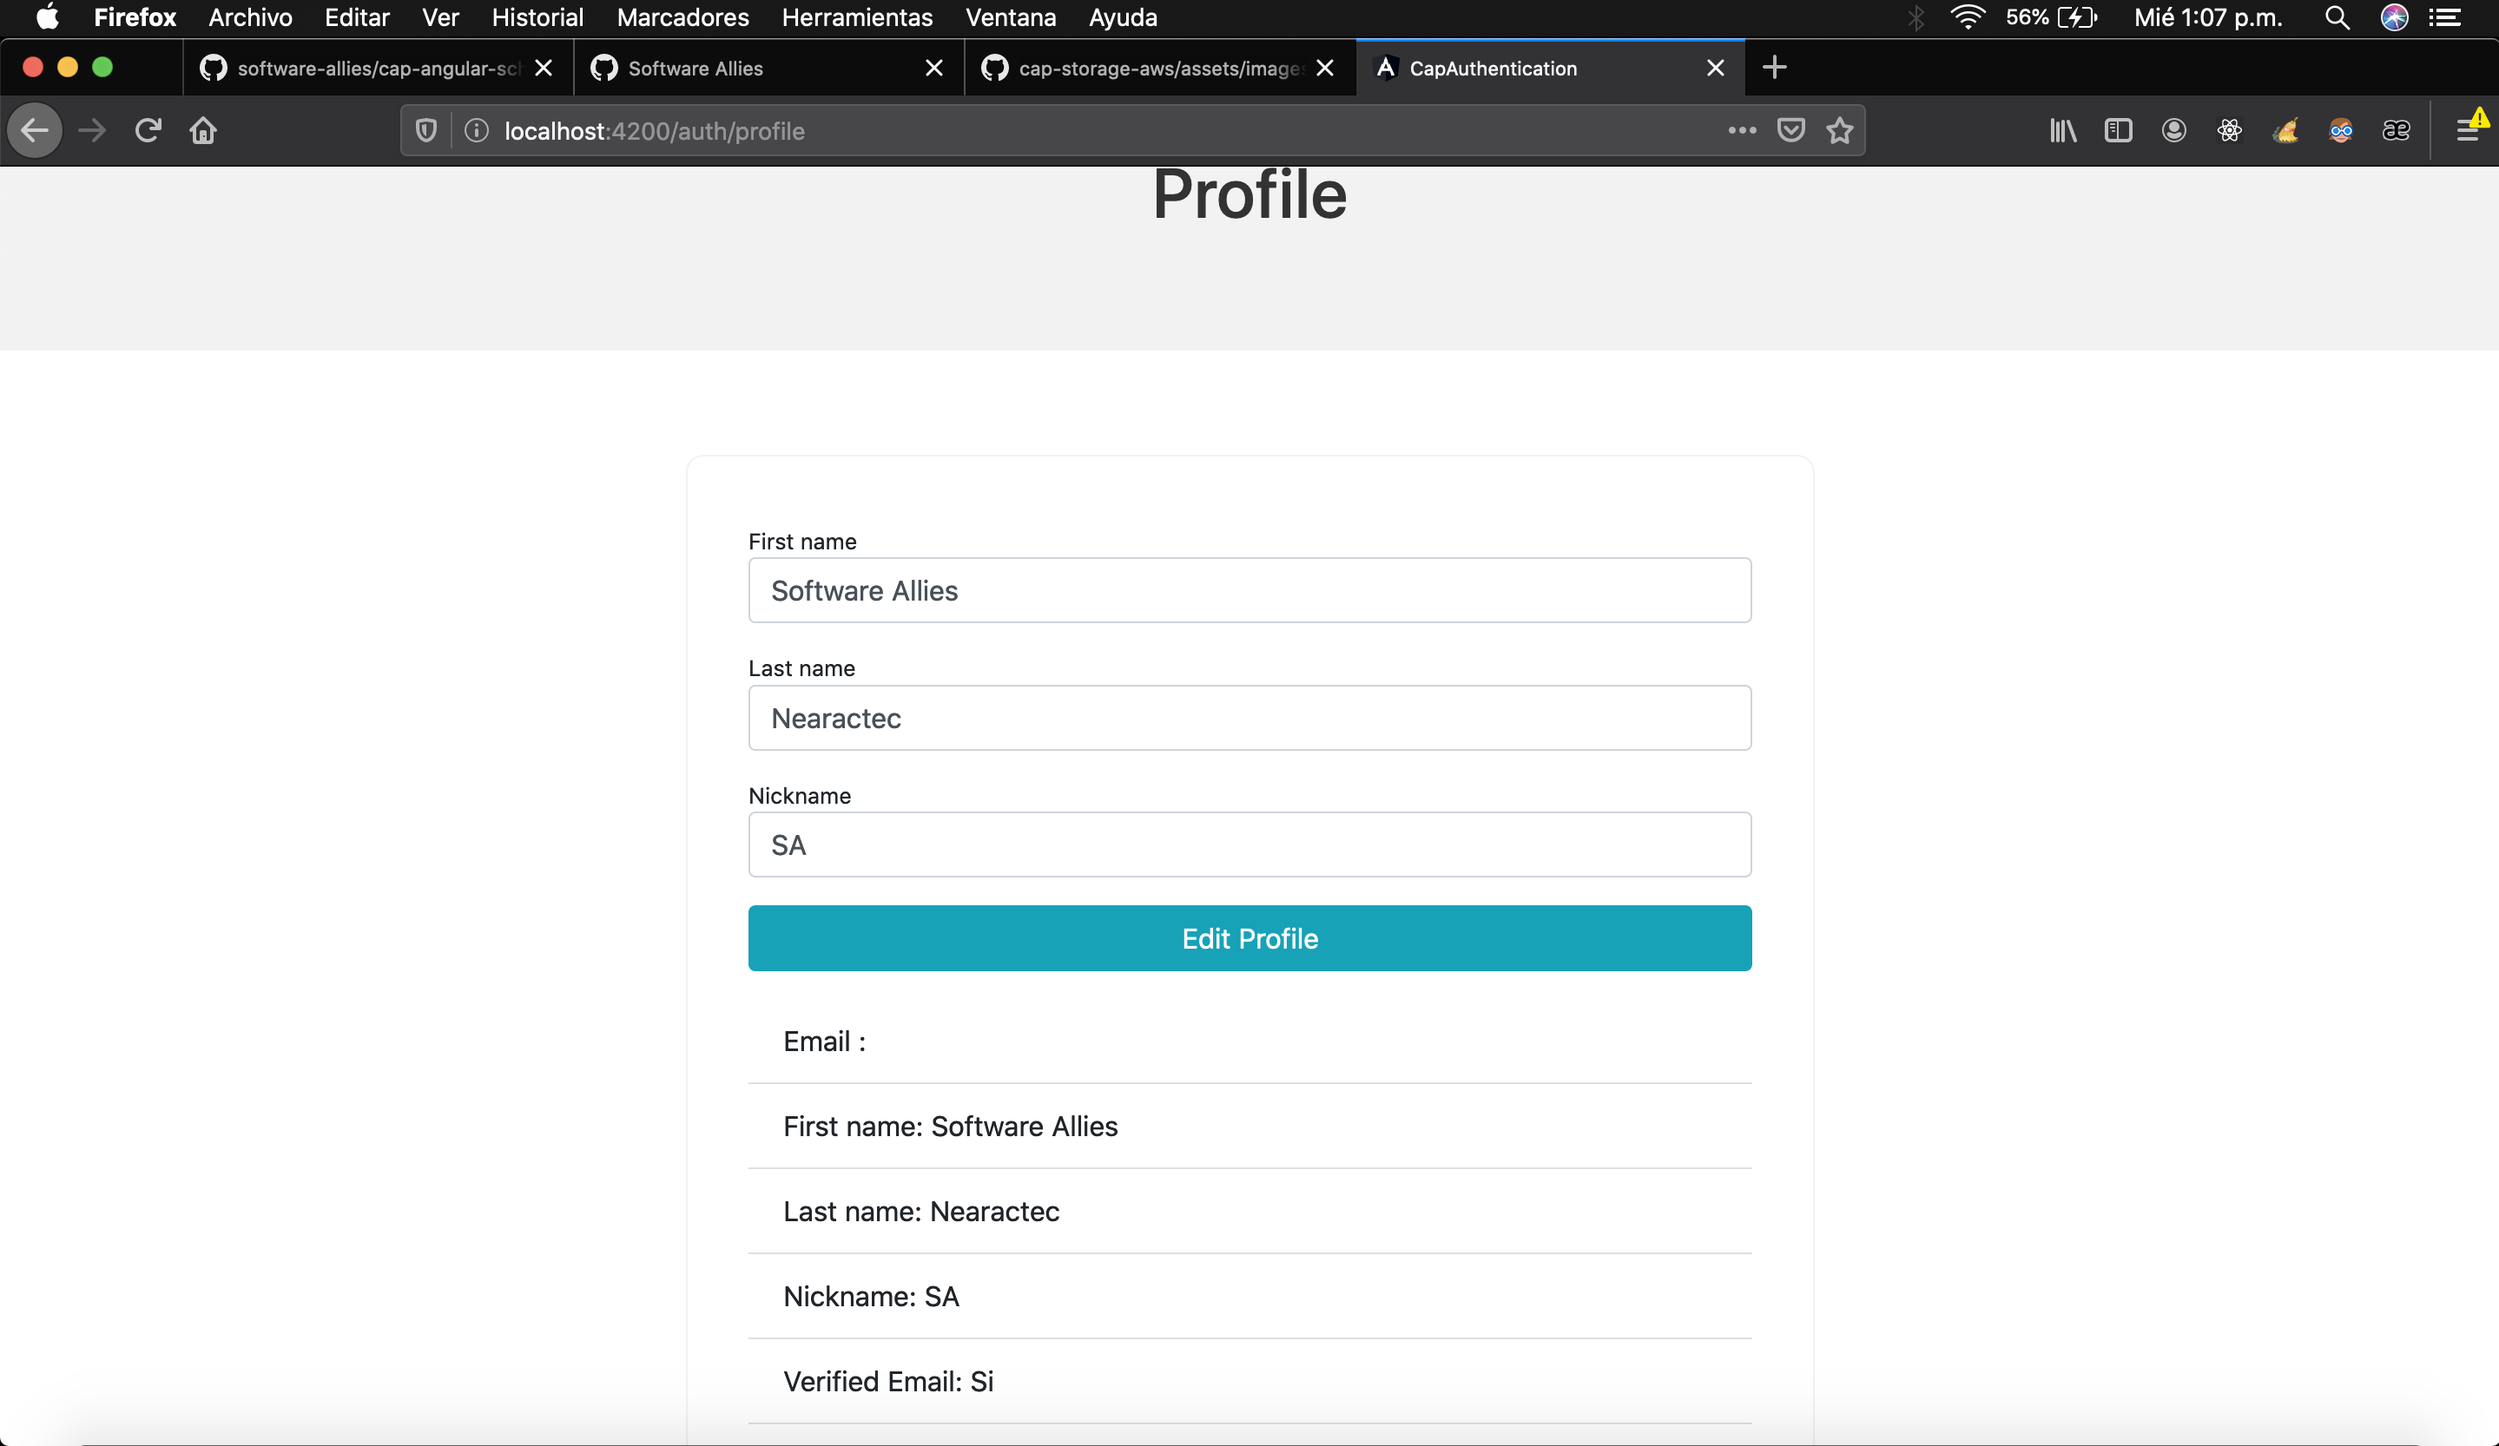
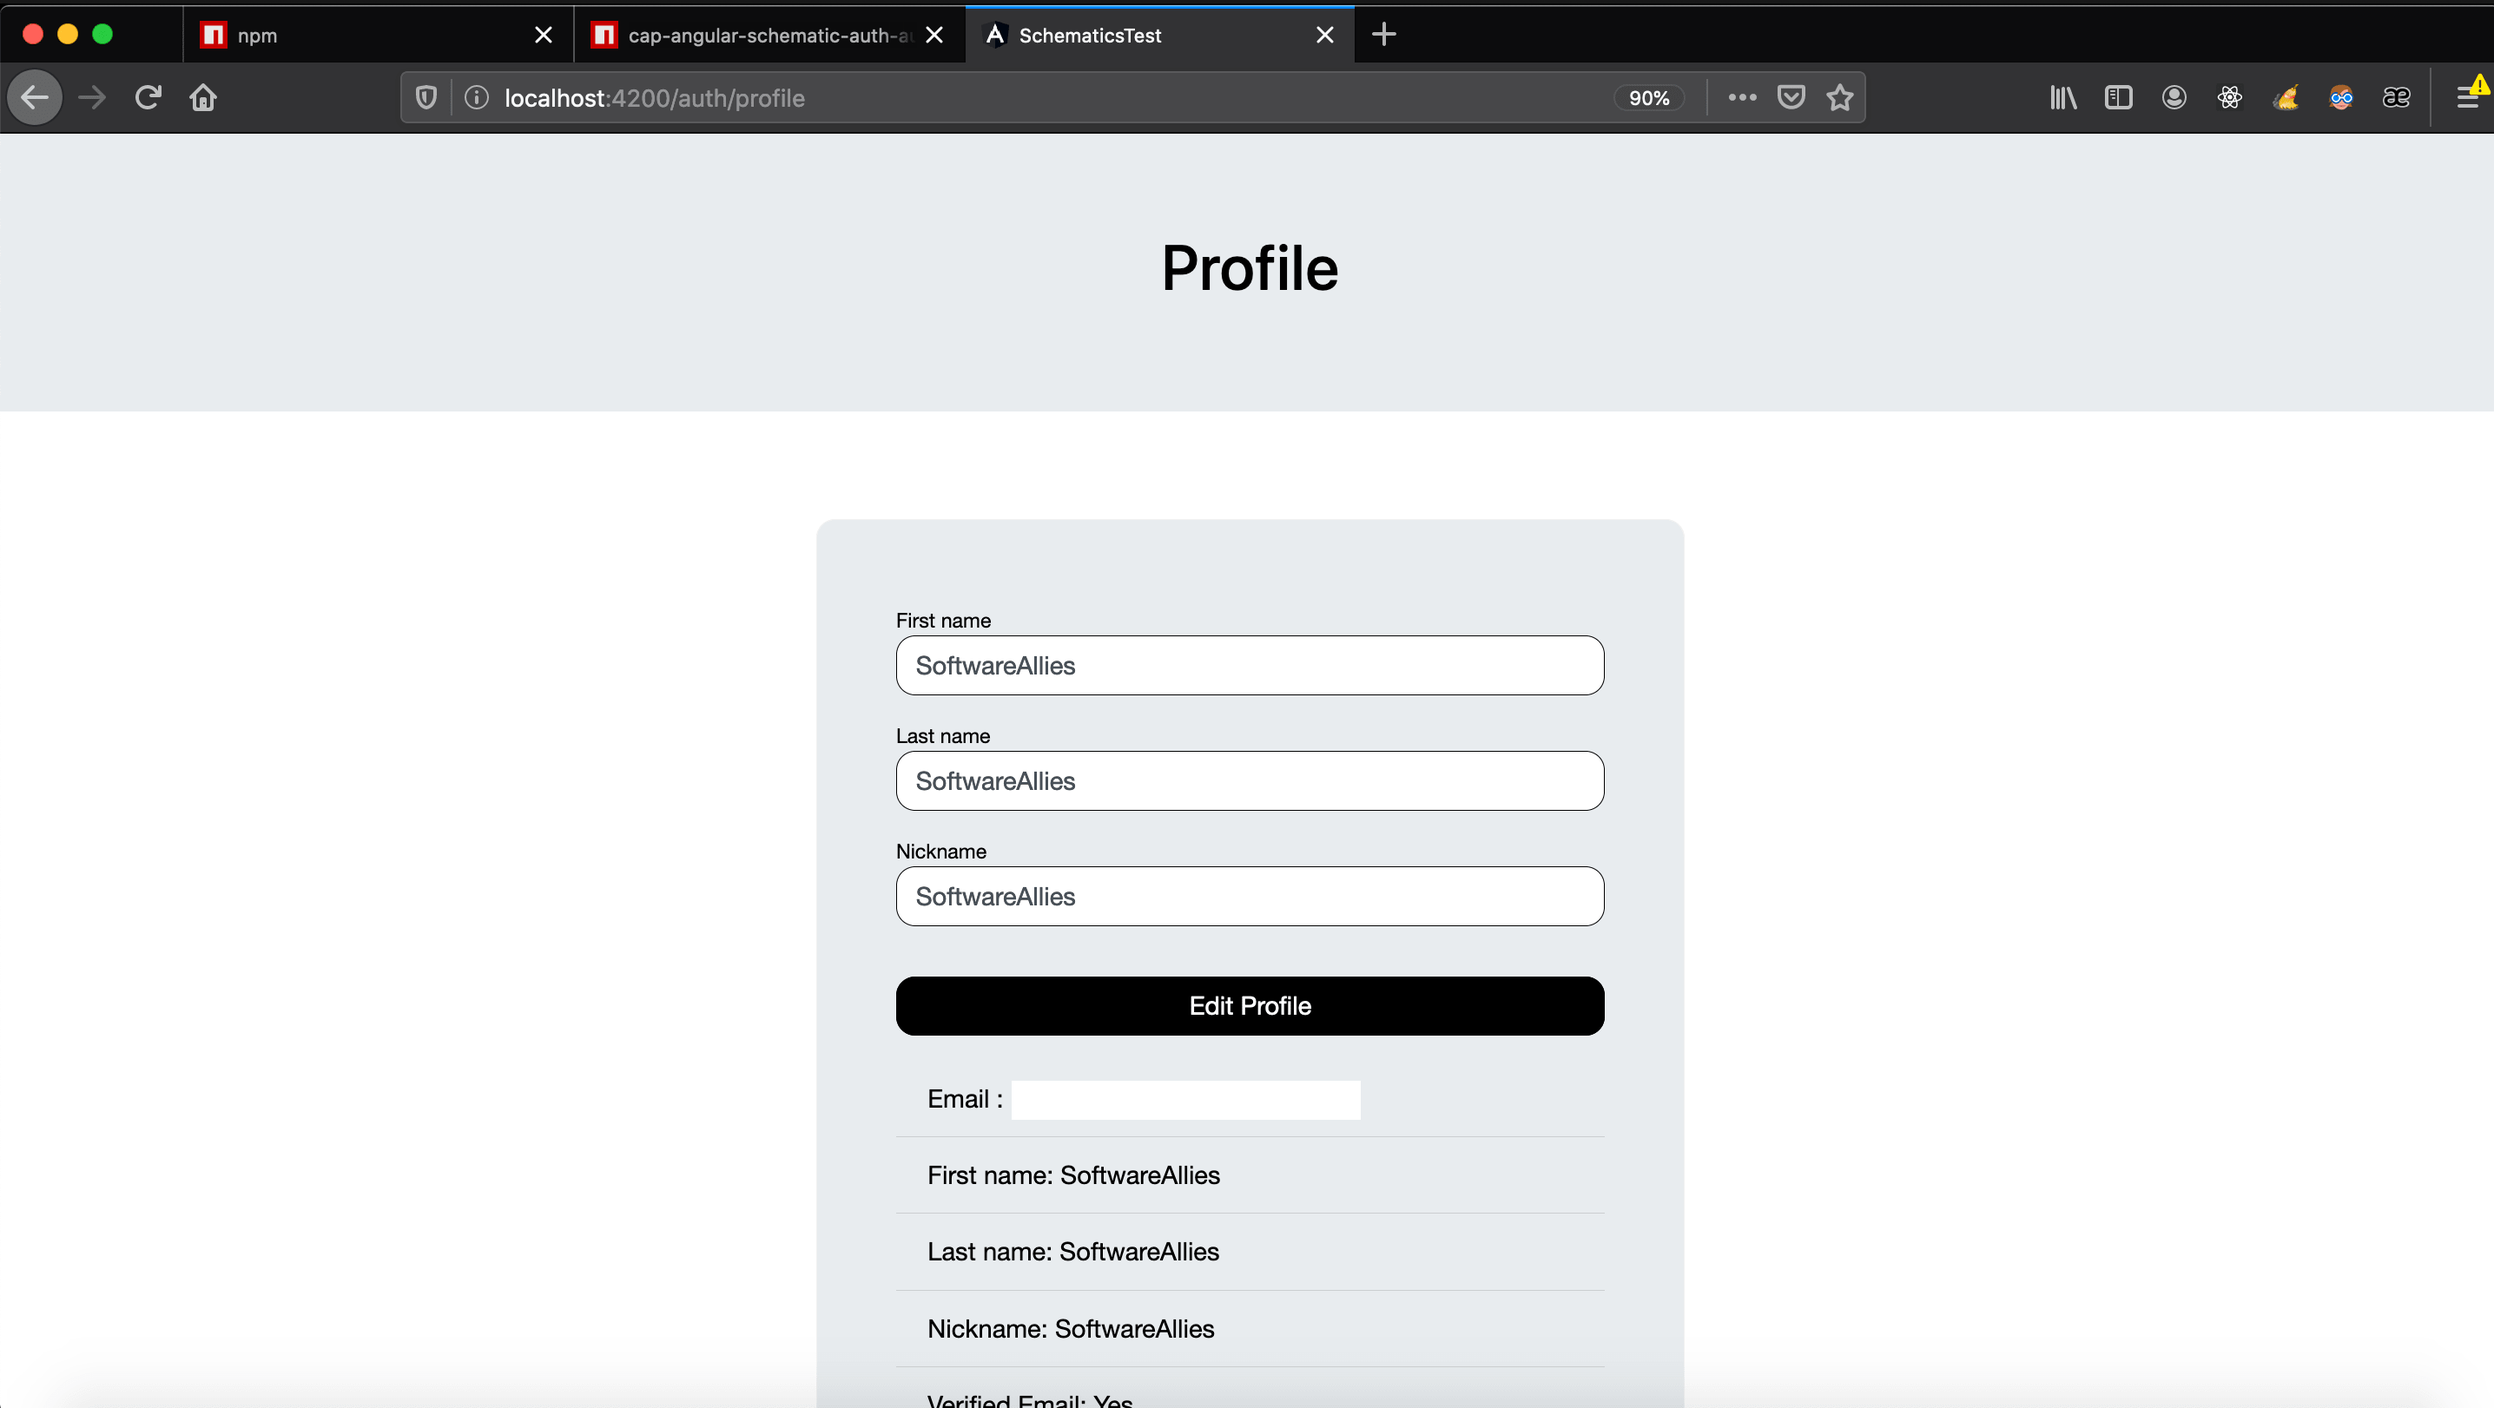
CAP-308 Update component styles to be more user friendly and update component images.

diff --git a/src/cap-angular-schematic-auth-auth0/index.ts b/src/cap-angular-schematic-auth-auth0/index.ts
@@ -37,8 +37,8 @@ import {
   NodeDependencyType
 } from 'schematics-utilities';
 import { NodePackageInstallTask } from '@angular-devkit/schematics/tasks';
-import { addEnvironmentVar } from './cap-utils';
-import { getAppName } from './cap-utils/package';
+import { addEnvironmentVar, appendToStartFile } from './cap-utils';
+import { getAppName  } from './cap-utils/package';
 
 
 function readIntoSourceFile(host: Tree, filePath: string) {
@@ -92,6 +92,126 @@ function addToEnvironments(options: SchemaOptions): Rule {
   }
 }
 
+function appendToStylesFile(path: string): Rule {
+  return (host: Tree) => {
+    const content = `
+.box {
+  display: flex;
+  align-items: center;
+  justify-content: center;
+  margin-top: 3em;
+}
+
+.box > div {
+  height: max-content !important;
+  border-radius: 12px !important;
+  font-family: "Segoe UI","Helvetica Neue",Arial,"Noto Sans",sans-serif,"Apple Color Emoji","Segoe UI Emoji","Segoe UI Symbol","Noto Color Emoji" !important;
+  padding: 50px !important;
+  width: 550px !important;
+  margin: 0 !important;
+  color: #000;
+  background-color:  #e9ecef;
+}
+
+.box > div > form > div input {
+  border-radius: 12px !important;
+  // background-color: #e2e3e5;
+  // background-color:  #e9ecef;
+  border-color: #000;
+}
+
+.box > div > form > div input:focus {
+  border-radius: 12px !important;
+  outline:none !important;
+  outline-width: 0 !important;
+  box-shadow: none !important;
+  -moz-box-shadow: none !important;
+  -webkit-box-shadow: none !important;
+  border-color: #000;
+  // background-color: #e9ecef;
+  border-width: 1.5px;
+}
+
+.box > div > form > div small a {
+  color: #000;
+}
+
+.box > div > form button {
+  margin-top: 2em !important;
+  border-radius: 12px !important;
+  background-color: #000 ;
+  border-color: #000;
+  color: #fff;
+}
+
+.box > div > form button:hover {
+  background-color: #343a40;
+  border-color: #343a40;
+}
+
+.box > div > div > form > div > div > div >input {
+  border-radius: 12px !important;
+  border-color: #000;
+  // background-color: #e9ecef;
+  // background-color: #e2e3e5;
+
+}
+
+.box > div > div > form > div > div > div >input:focus {
+  border-radius: 12px !important;
+  outline:none !important;
+  outline-width: 0 !important;
+  box-shadow: none !important;
+  -moz-box-shadow: none !important;
+  -webkit-box-shadow: none !important;
+  border-color: #000;
+  // background-color: #e9ecef;
+  border-width: 1.5px;
+}
+
+.box > div > div > form > div > div > button {
+  margin-top: 2em !important;
+  border-radius: 12px !important;
+  background-color: #000;
+  border-color: #000;
+  color: #fff;
+}
+
+.box > div > div > form > div > div > button:hover {
+  background-color: #343a40;
+  border-color: #343a40;
+}
+
+.box > div > div > div > div > button {
+  margin-top: 2em !important;
+  border-radius: 12px !important;
+  background-color: #000;
+  border-color: #000;
+  color: #fff ;
+}
+
+.box > div > div > div > div > button:hover {
+  background-color: #343a40;
+  border-color: #343a40;
+}
+
+.box > div > div > div > div > div > button {
+  margin-top: 2em !important;
+  border-radius: 12px !important;
+  background-color: #000;
+  border-color: #000;
+  color: #fff;
+}
+
+.box > div > div > div > div > div > button:hover {
+  background-color: #343a40;
+  border-color: #343a40;
+}`;
+    appendToStartFile(host, path, content);
+    return host;
+  };
+}
+
 export default function (options: SchemaOptions): Rule {
   return (host: Tree, context: FileSystemSchematicContext) => {
 
@@ -121,6 +241,17 @@ export default function (options: SchemaOptions): Rule {
       ...strings,
       ...options,
     };
+
+    // Get the styles.scss file 
+    let styles = `src/styles.scss`;
+
+    if (host.read(styles) === null) {
+      styles = `src/styles.css`;
+    }
+
+    const files: any = {
+      styles: styles,
+    }
 
     const templateSource = apply(url('./files'), [
       template(baseTemplateContext),
@@ -163,7 +294,8 @@ export default function (options: SchemaOptions): Rule {
         installPackageJsonDependencies(),
         addToNgModule(options),
         addToEnvironments(options),
-        mergeWith(templateSource)
+        mergeWith(templateSource),
+        appendToStylesFile(files.styles)
       ])),
     ])(host, context);
   };
